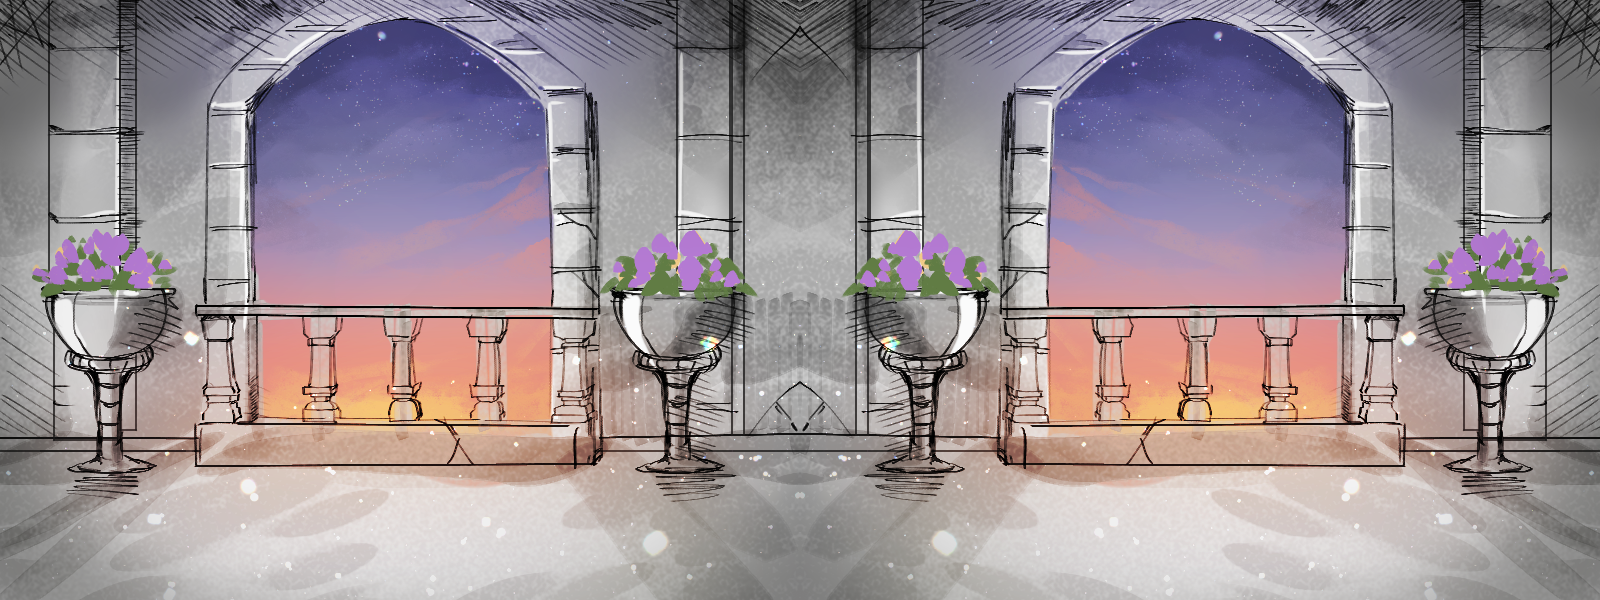
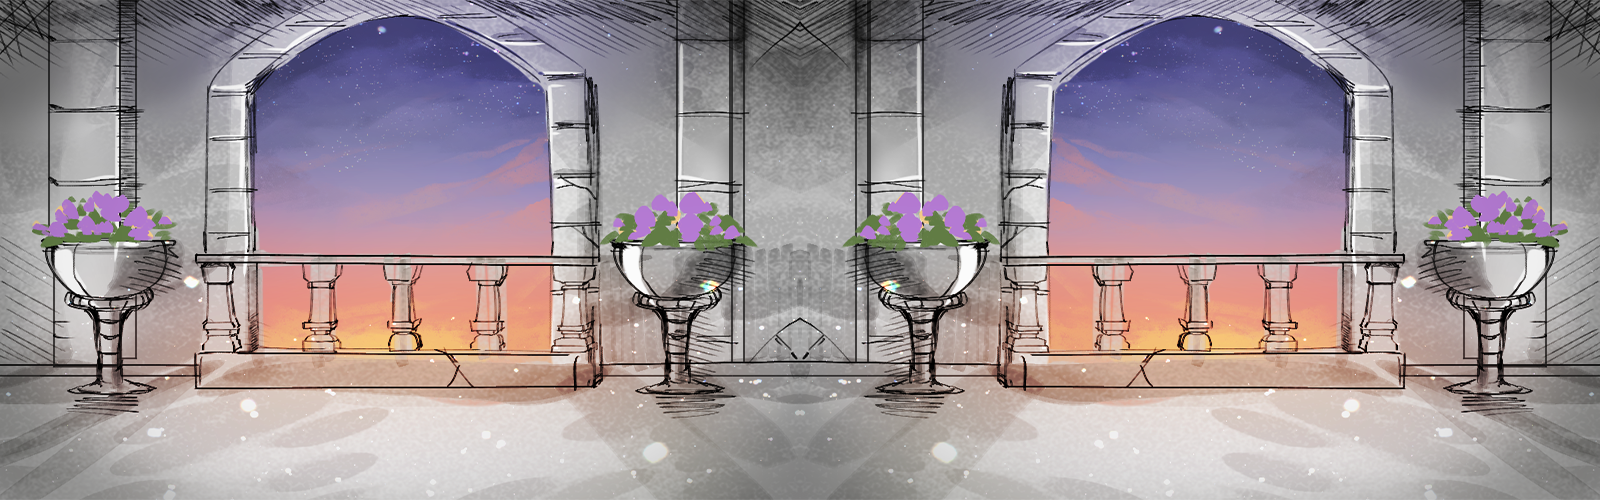
이미지 사이즈 수정 장애물 스피드 수정(진행할수록 점점 빨라지게)

diff --git a/term/fire_state.py b/term/fire_state.py
@@ -2,21 +2,43 @@ from pico2d import *
 import game_framework
 import random
 
+STAGE1, STAGE2, STAGE3, STAGE4, STAGE5 = range(5)
+MIN, MAX = range(2)
+speed_table = {
+                STAGE1 : {MIN : 5, MAX : 8},
+                STAGE2 : {MIN : 7, MAX : 11},
+                STAGE3 : {MIN : 9, MAX : 12},
+                STAGE4 : {MIN : 11, MAX : 14},
+                STAGE5 : {MIN : 13, MAX : 17}}
+
+next_stage_table = {STAGE1 : STAGE2, STAGE2 : STAGE3, STAGE3 : STAGE4, STAGE4 : STAGE5}
+
 class Fire:
     image = None
+
     def __init__(self):
         if Fire.image == None:
             Fire.image = load_image('resource/fire.png')
-        self.x = random.randint(110, 690)
-        self.y = 550
-        self.speed = random.randint(10, 15)
+        self.x = random.randint(150, 650)
+        self.y = 575
+        self.minSpeed = speed_table[STAGE1][MIN]
+        self.maxSpeed = speed_table[STAGE1][MAX]
+        self.cur_stage = STAGE1
+        self.speed = random.randint(self.minSpeed, self.maxSpeed)
+        self.next_stage = None
 
     def draw(self):
         Fire.image.draw(self.x, self.y)
 
+    def change_stage(self):
+        self.next_stage = next_stage_table[self.cur_stage]
+        self.minSpeed = speed_table[self.next_stage][MIN]
+        self.maxSpeed = speed_table[self.next_stage][MAX]
+        self.cur_stage = self.next_stage
+
     def update(self):
         self.y = self.y + (self.speed * -1)
         if self.y <= 0:
-            self.x = random.randint(110, 690)
-            self.y = 550
-            self.speed = random.randint(10, 15)
+            self.x = random.randint(150, 650)
+            self.y = 575
+            self.speed = random.randint(self.minSpeed, self.maxSpeed)

diff --git a/term/game.py b/term/game.py
@@ -3,12 +3,14 @@ import game_framework
 from player_state import Princess
 from background_state import Castle
 from image_state import BackGround
-from fire_state import  Fire
+from fire_state import Fire
+from background_state import Menu
 import json
 
 player = None
 fire = None
 background = None
+menu = None
 cur_event = None
 level = 1
 data = None
@@ -24,7 +26,7 @@ dir_table = {
 }
 
 def enter():
-    global  player, background, image, fire
+    global  player, background, image, fire, menu
     global  cur_event
     global level
     global  data
@@ -33,6 +35,8 @@ def enter():
     player = Princess()
     background = Castle()
     image = BackGround()
+    menu = Menu()
+
     level = 1
     fire = [Fire() for i in range(level * 7)]
 
@@ -110,7 +114,7 @@ def move():
     change_event()
 
 def change_level():
-    global player, background, image
+    global player, background, image, fire
     global cur_event
     global level
     if level % 2 == 1:
@@ -136,6 +140,9 @@ def change_level():
         background.image = image.stage4
     elif level == 5:
         background.image = image.stage5
+
+    for f in fire:
+        f.change_stage()
 
 def handle_events():
     global player, background
@@ -171,4 +178,5 @@ def draw():
     player.draw()
     for f in fire:
         f.draw()
+    menu.draw()
     update_canvas()

diff --git a/term/player_state.py b/term/player_state.py
@@ -4,12 +4,12 @@ import game_framework
 class Princess:
     def __init__(self):
         self.image = load_image('resource/animation.png')
-        self.x, self.y = 200, 200
+        self.x, self.y = 200, 250
         self.frame = 0
         self.dir = 1
 
     def draw(self):
-        self.image.clip_draw(self.frame * 200, self.dir * 300, 200, 300, self.x, self.y)
+        self.image.clip_draw(self.frame * 150, self.dir * 250, 150, 250, self.x, self.y)
 
     def move(self):
         if self.dir == 1:

diff --git a/term/background_state.py b/term/background_state.py
@@ -8,10 +8,17 @@ class Castle:
         self.dir = 1
 
     def draw(self):
-        self.image.clip_draw(self.x, 0, 800, 600, 400, 300)
+        self.image.clip_draw(self.x, 0, 800, 500, 400, 350)
 
     def move(self):
         if self.dir == 1:
             self.x -= 25
         else:
             self.x += 25
+
+class Menu:
+    def __init__(self):
+        self.image = load_image('resource/menu.png')
+
+    def draw(self):
+        self.image.draw(400, 50);
